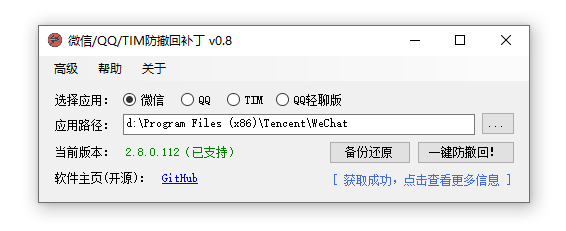
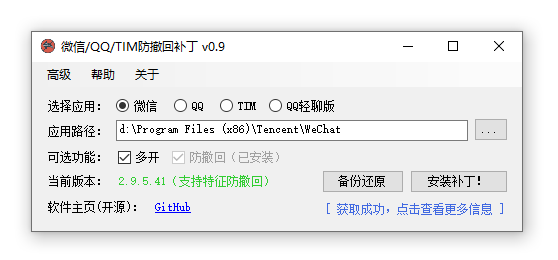
[+] Screenshot 0.9

Changed region(s): [[0.0305, 0.0909, 0.9444, 0.9091], [0.2437, 0.2424, 0.3047, 0.3333]]

diff --git a/README.md b/README.md
@@ -18,14 +18,14 @@
 </p>
 
 # 👀微信/QQ/TIM防撤回补丁
-适用于 Windows 下 PC 版微信/QQ/TIM的防撤回补丁。**从 0.7 版本开始通杀所有新版本微信/QQ（含测试版）**
+适用于 Windows 下 PC 版微信/QQ/TIM的防撤回补丁。**支持最新版微信/QQ/TIM**，其中微信能够选择安装多开功能。
 
 <img width="180px" src="https://raw.githubusercontent.com/huiyadanli/RevokeMsgPatcher/master/Images/revoke.jpg"/>
 
 下载地址：
-**[⚡点我下载最新版本](https://github.com/huiyadanli/RevokeMsgPatcher/releases/download/0.8/RevokeMsgPatcher.v0.8.zip)** |
-[☁备用下载-蓝奏云](https://www.lanzous.com/i8lhkyf) | 
-[☁备用下载-百度云](https://pan.baidu.com/s/1m90EZj32B-Y8nwzxm7Efdg) 提取码：coco
+**[⚡点我下载最新版本](https://github.com/huiyadanli/RevokeMsgPatcher/releases/download/0.9/RevokeMsgPatcher.v0.9.zip)** |
+[☁备用下载-蓝奏云](https://wwa.lanzous.com/iaULseyzpbe) | 
+[☁备用下载-百度云](https://pan.baidu.com/s/1Yty-6d31by_E53SKZyQvTg) 提取码：coco
 
 相关文档：
 **[✔支持哪些版本](https://github.com/huiyadanli/RevokeMsgPatcher/wiki/%E7%89%88%E6%9C%AC%E6%94%AF%E6%8C%81)** | 
